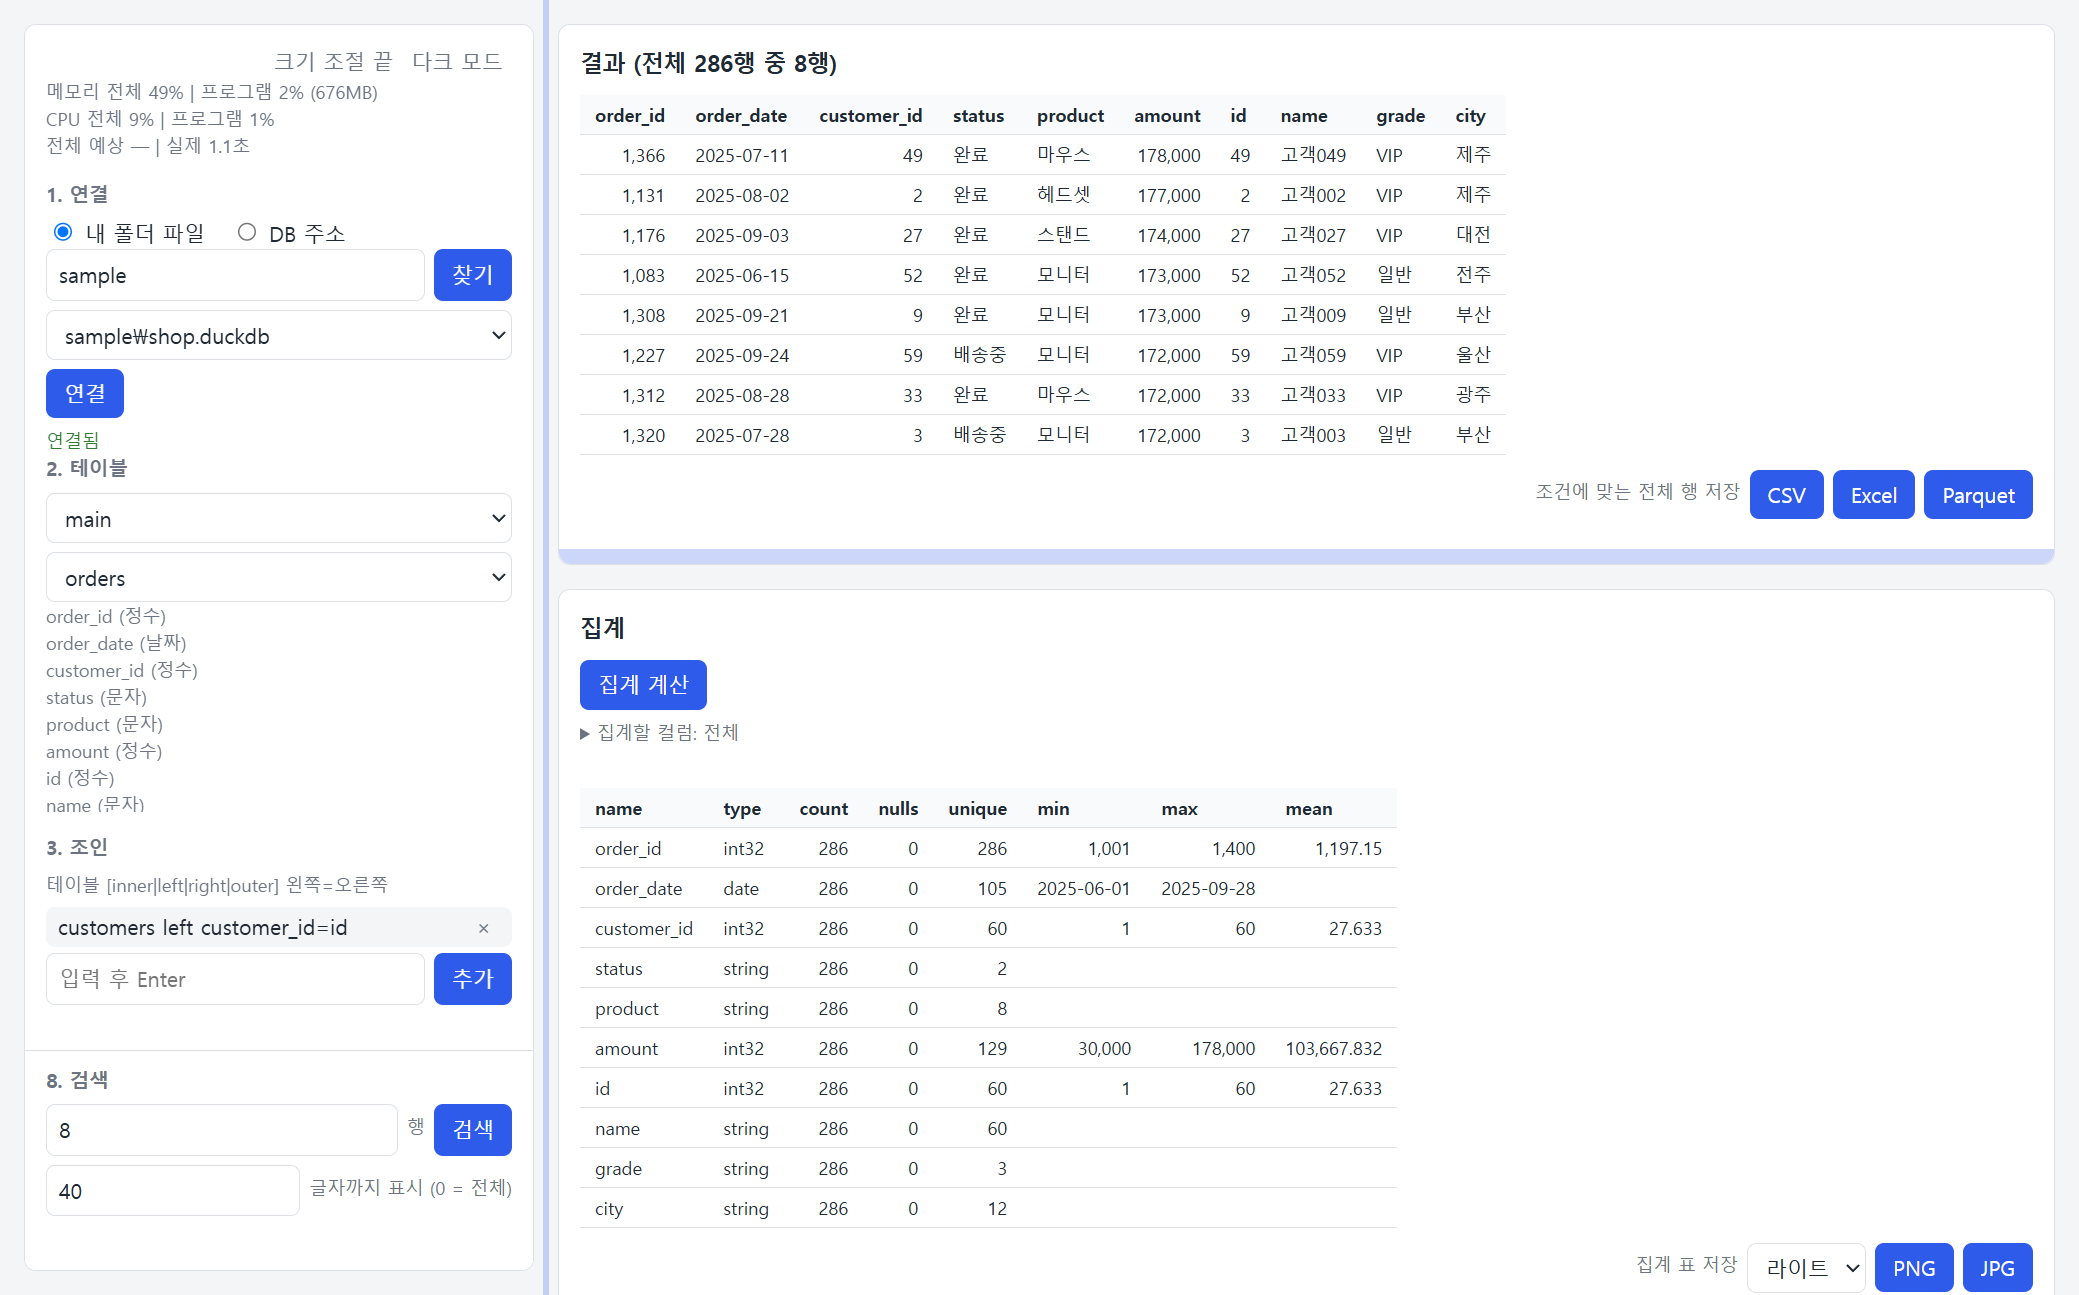
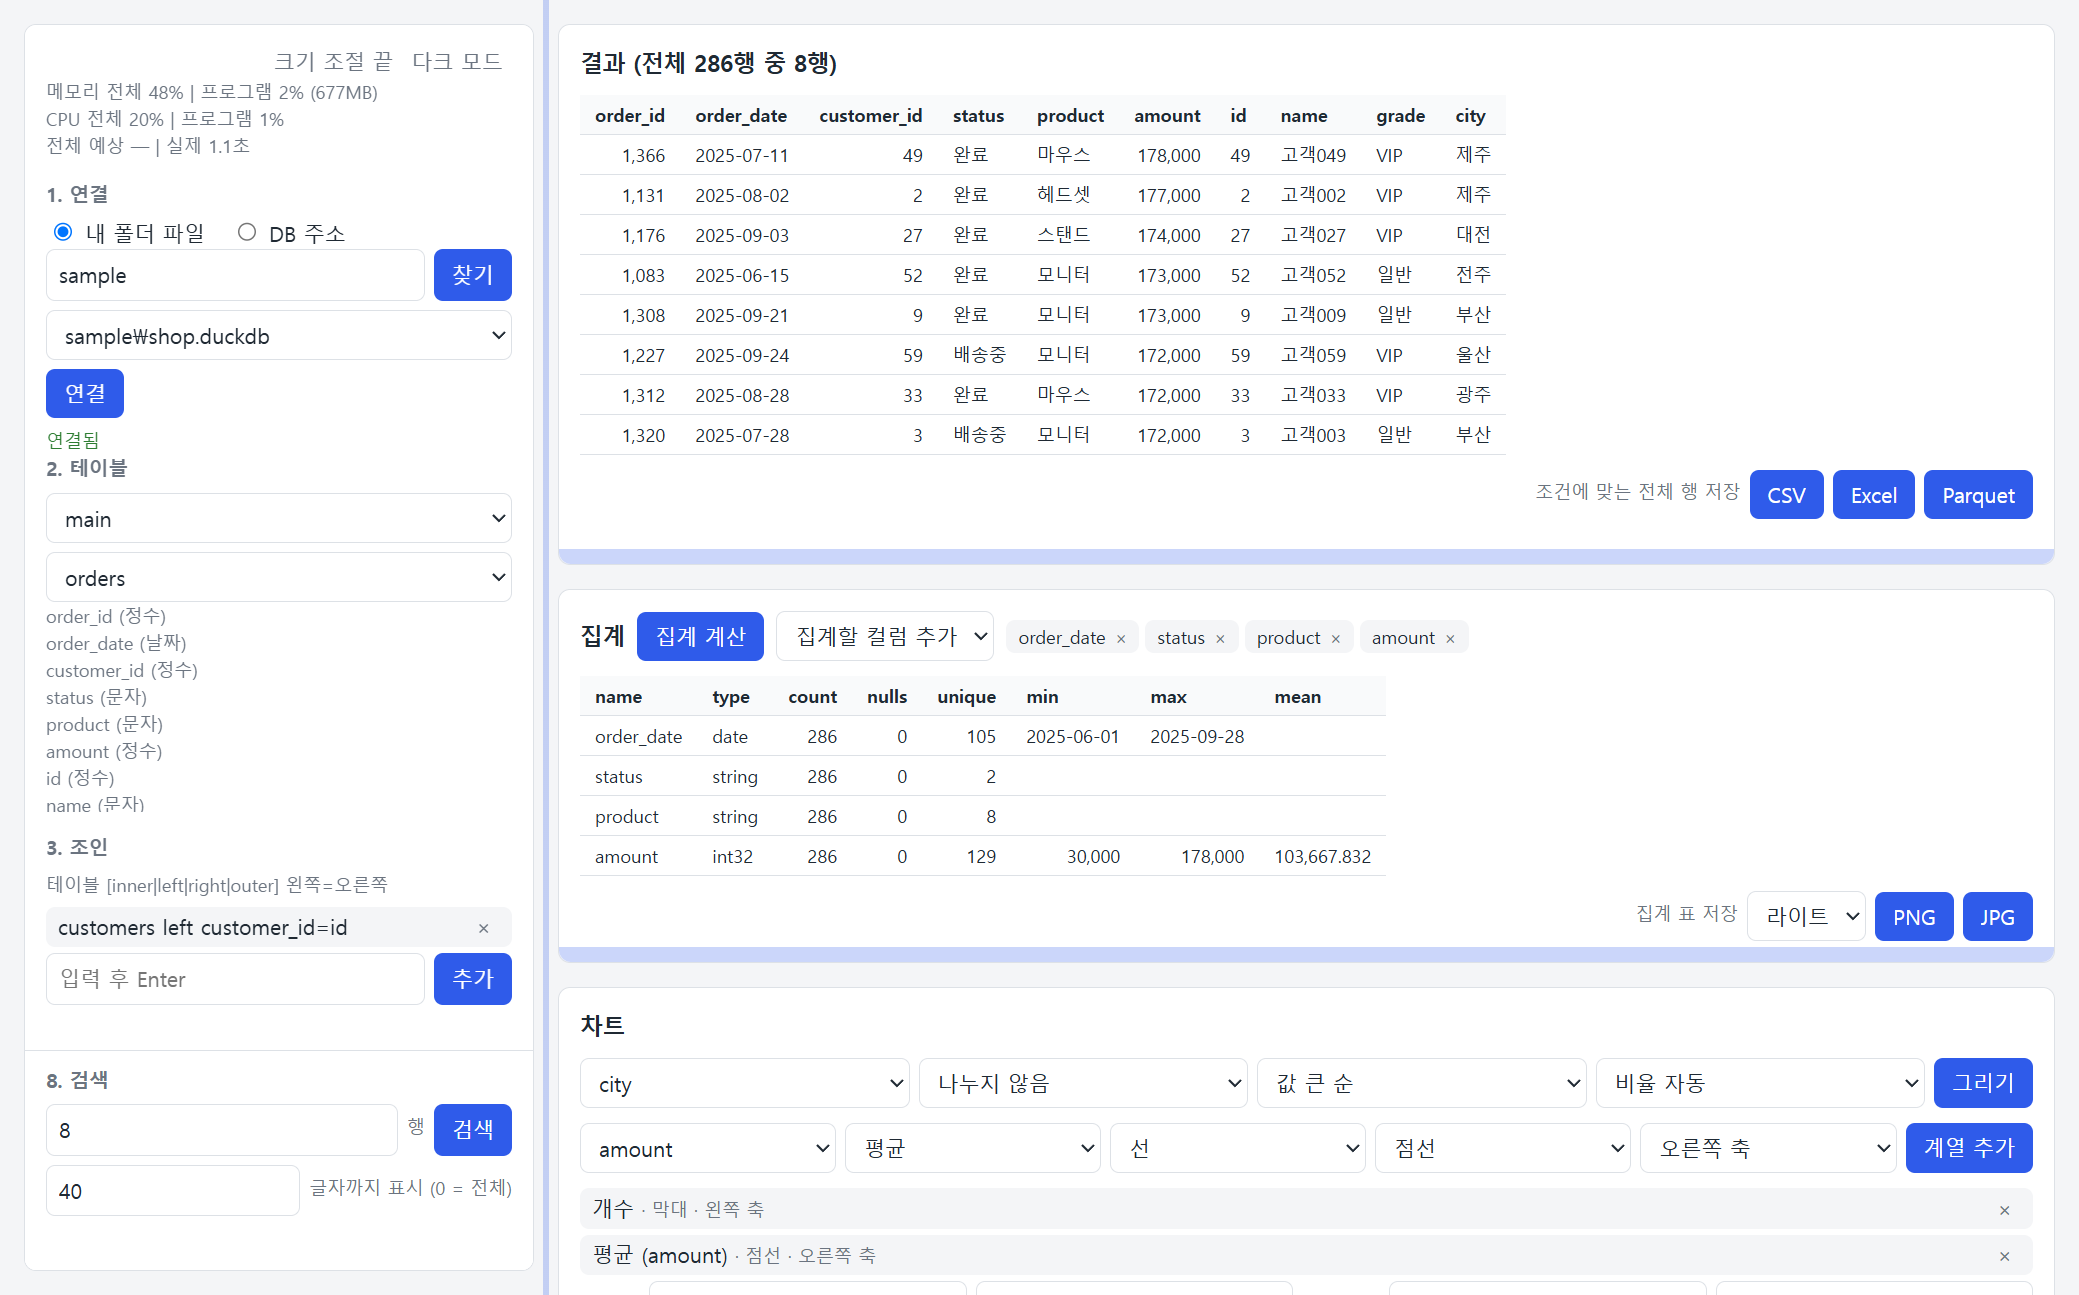
집계할 컬럼을 제목 줄에서 고르기, 접속 제한 60초
- 집계 카드: 제목 옆에 [집계 계산]과 컬럼 고르는 칸, 고른 컬럼은 ×가 달린 칩으로 표시
- 칩이 한 줄을 넘으면 "… 외 N개"로 줄이고 누르면 펼침
- 제목 줄과 표 사이의 빈 줄 제거
- 주소 접속 제한 시간을 30초에서 60초로
- README 설명과 화면 그림 갱신

diff --git a/static/index.html b/static/index.html
@@ -65,9 +65,16 @@
   #flat .row { align-items:center; margin-bottom:2px; }
   #flat-list label, .checks label { display:block; white-space:nowrap; }
   #flat-list input, .checks input { width:auto; }
-  #scols-box { margin-bottom:6px; }
-  #scols-box summary { cursor:pointer; }
-  #scols-box .row { align-items:center; margin:4px 0 2px; }
+  /* 카드 제목 줄: 제목 옆에 버튼과 고르는 칸, 그 오른쪽에 고른 것들(칩)이 한 줄로 놓인다. */
+  .head { display:flex; flex-wrap:wrap; align-items:center; gap:8px; margin-bottom:10px; }
+  .head h3 { margin:0; flex:none; }
+  .head select { width:auto; max-width:200px; flex:none; }
+  .chips { display:flex; flex:1 1 160px; min-width:0; gap:4px; align-items:center; overflow:hidden; }
+  .chips.open { flex-wrap:wrap; }
+  .chips .hint { margin:0; white-space:nowrap; }
+  .chip { flex:none; background:var(--bg); border-radius:6px; padding:2px 2px 2px 8px; font-size:12px; white-space:nowrap; }
+  .chip.more { padding:2px 8px; color:var(--accent); cursor:pointer; }
+  #err-summary:empty { display:none; }  /* 알릴 것이 없으면 제목 줄과 표 사이를 비우지 않는다. */
   /* 조건 입력 방식: 칸으로 선택(.fields)이면 한 줄 입력칸과 형식 안내를, 한 줄 입력(.line)이면 칸들을 감춘다. 조건 목록은 둘 다 같이 쓴다. */
   #cond.fields :is(#conditions .row, .format), #cond.line #builder { display:none; }
   #builder .row select { flex:1; min-width:0; }
@@ -193,13 +200,12 @@
       <div class="grip-y" data-size="rows" title="끌어서 결과 표 높이 조절 (더블클릭: 기본)"></div>
     </section>
     <section class="card">
-      <h3>집계</h3>
-      <div class="row"><button id="summarize">집계 계산</button></div>
-      <details id="scols-box">
-        <summary class="hint" id="scols-count"></summary>
-        <div class="row"><button class="ghost" id="scols-all">모두 선택</button><button class="ghost" id="scols-none">모두 해제</button></div>
-        <div class="cols checks" id="scols"></div>
-      </details>
+      <div class="head">
+        <h3>집계</h3>
+        <button id="summarize">집계 계산</button>
+        <select id="scol-add" title="집계할 컬럼을 고릅니다. 하나도 고르지 않으면 전체를 집계합니다"></select>
+        <div class="chips" id="scols"></div>
+      </div>
       <div class="err" id="err-summary"></div>
       <div class="table-wrap" id="summary"></div>
       <div class="row save"><span class="hint">집계 표 저장</span>
@@ -341,7 +347,7 @@ document.querySelectorAll("input[name=kind]").forEach(r => r.onchange = () => {
   $("folder-box").classList.toggle("hidden", !folder);
   $("url-box").classList.toggle("hidden", folder);
 });
-// 체크 목록: box 안에 값마다 체크 칸을 만든다. keep에 든 값은 체크해 둔다. checked(box)는 체크한 값들.
+// 체크 목록: box 안에 값마다 체크 칸을 만든다. keep에 든 값은 체크해 둔다.
 function checks(box, values, keep = []) {
   box.replaceChildren(...values.map(v => {
     const label = document.createElement("label"), input = Object.assign(document.createElement("input"), { type: "checkbox", value: v, checked: keep.includes(v) });
@@ -349,20 +355,42 @@ function checks(box, values, keep = []) {
     return label;
   }));
 }
-function checked(box) { return [...box.querySelectorAll("input:checked")].map(i => i.value); }
 // 집계할 컬럼: 고르지 않으면 전체(표시 컬럼을 정했으면 그 컬럼들), 고르면 그 컬럼만 집계한다. 컬럼 목록이 바뀌어도 고른 것은 남긴다.
+// 제목 옆 칸에서 고르면 그 오른쪽에 ×가 달린 칩으로 놓인다. 한 줄에 다 안 들어가면 들어가는 만큼만 보이고 나머지는 "… 외 N개"로 줄인다(누르면 펼침).
+let scols = [], scolsOpen = false;
 function showSummaryCols() {
-  const n = checked($("scols")).length;
-  $("scols-count").textContent = n ? `집계할 컬럼: ${n} / ${S.cols.length}개 선택` : "집계할 컬럼: 전체";
+  const box = $("scols");
+  const chip = name => {
+    const item = Object.assign(document.createElement("span"), { className: "chip", textContent: name });
+    const remove = Object.assign(document.createElement("button"), { className: "ghost", textContent: "×", title: "빼기" });
+    remove.onclick = () => { scols = scols.filter(c => c !== name); fillSummaryCols(); };
+    item.append(remove);
+    return item;
+  };
+  const toggle = (text, title) => {
+    const item = Object.assign(document.createElement("span"), { className: "chip more", textContent: text, title });
+    item.onclick = () => { scolsOpen = !scolsOpen; showSummaryCols(); };
+    return item;
+  };
+  if (!scols.length) scolsOpen = false;
+  box.classList.toggle("open", scolsOpen);
+  if (!scols.length) { box.innerHTML = '<span class="hint">전체 컬럼</span>'; return; }
+  box.replaceChildren(...scols.map(chip));
+  if (scolsOpen) { box.append(toggle("접기", "한 줄로 줄입니다")); return; }
+  for (let shown = scols.length; shown > 0 && box.scrollWidth > box.clientWidth; ) {
+    shown--;
+    box.replaceChildren(...scols.slice(0, shown).map(chip), toggle(`… 외 ${scols.length - shown}개`, scols.slice(shown).join(", ")));
+  }
 }
 function fillSummaryCols() {
-  checks($("scols"), S.cols.map(c => c[0]), checked($("scols")));
+  const names = S.cols.map(c => c[0]);
+  scols = scols.filter(c => names.includes(c));
+  fill($("scol-add"), names.filter(c => !scols.includes(c)), "집계할 컬럼 추가");
   showSummaryCols();
 }
-$("scols").onchange = showSummaryCols;
-$("scols-all").onclick = () => { $("scols").querySelectorAll("input").forEach(i => i.checked = true); showSummaryCols(); };
-$("scols-none").onclick = () => { $("scols").querySelectorAll("input").forEach(i => i.checked = false); showSummaryCols(); };
-showSummaryCols();
+$("scol-add").onchange = () => { if ($("scol-add").value) { scols.push($("scol-add").value); fillSummaryCols(); } };
+new ResizeObserver(showSummaryCols).observe($("scols"));  // 카드 너비가 바뀌면 다시 맞춘다.
+fillSummaryCols();
 
 // Parquet·CSV는 여러 개를 골라 연다(파일마다 테이블 하나). 파일 목록에서 이 항목을 고르면 체크 목록이 나온다.
 const FLAT = "*flat";  // 파일 이름에 쓸 수 없는 글자로 시작해 실제 경로와 겹치지 않는다.
@@ -598,7 +626,7 @@ $("summarize").onclick = () => {
   return busy($("summarize"), async () => {
     const before = last;
     try {
-      const { summary } = await timed("summary", () => api("/api/summary", { ...state(), summary_columns: checked($("scols")) }));
+      const { summary } = await timed("summary", () => api("/api/summary", { ...state(), summary_columns: scols }));
       if (last !== before) return;  // 계산하는 사이 새로 검색했으면 버린다.
       last = { ...last, summary };
       renderTables();

diff --git a/source.py b/source.py
@@ -53,7 +53,7 @@ def open_flat_files(paths):
     return con
 
 
-CONNECT_TIMEOUT = 30  # 주소로 접속할 때 기다리는 시간(초). 틀린 주소에서 드라이버가 몇 분씩 붙잡는 것을 막는다.
+CONNECT_TIMEOUT = 60  # 주소로 접속할 때 기다리는 시간(초). 틀린 주소에서 드라이버가 몇 분씩 붙잡는 것을 막는다.
 
 
 def within(seconds, connect):

diff --git a/README.md b/README.md
@@ -67,7 +67,7 @@ DB·DW 또는 내 데이터 파일(DuckDB, Parquet, CSV)에 연결해, 테이블
 
 비밀번호는 프로그램이 켜져 있는 동안 메모리에만 두고, 오류 문구에서는 가립니다.
 
-30초 안에 연결되지 않으면 기다리기를 멈추고 알려 줍니다. 주소가 틀렸거나 네트워크가 막혀 있을 때입니다.
+60초 안에 연결되지 않으면 기다리기를 멈추고 알려 줍니다. 주소가 틀렸거나 네트워크가 막혀 있을 때입니다.
 
 ### 연결을 바꾸거나 끊을 때
 
@@ -237,7 +237,7 @@ status, amount
 
 [집계 계산]을 누르면 지금 조건으로 컬럼별 개수, 빈 값, 고유값, 최소, 최대, 평균을 계산합니다. 최소와 최대는 숫자와 날짜 컬럼에, 평균은 숫자 컬럼에만 나옵니다. 큰 테이블에서는 오래 걸릴 수 있어 검색과 따로 계산하고, 새로 검색하면 지워집니다.
 
-일부 컬럼만 집계하려면 [집계할 컬럼]을 눌러 목록을 펼치고 원하는 컬럼을 체크한 뒤 [집계 계산]을 누릅니다. 아무것도 체크하지 않으면 전체를 집계합니다(표시 컬럼을 정했으면 그 컬럼들). 고른 컬럼만 계산하므로 큰 테이블에서는 더 빨리 끝납니다. 표시 컬럼에 없는 컬럼도 고를 수 있습니다.
+일부 컬럼만 집계하려면 제목 옆의 [집계할 컬럼 추가]에서 컬럼을 고릅니다. 고른 컬럼은 그 오른쪽에 하나씩 놓이고, `×`로 뺍니다. 한 줄에 다 들어가지 않으면 `… 외 N개`로 줄여 보이며, 누르면 모두 펼칩니다. 하나도 고르지 않으면 전체를 집계합니다(표시 컬럼을 정했으면 그 컬럼들). 고른 컬럼만 계산하므로 큰 테이블에서는 더 빨리 끝납니다. 표시 컬럼에 없는 컬럼도 고를 수 있습니다.
 
 집계 표 아래의 [PNG], [JPG]를 누르면 표 전체를 그림 파일로 저장합니다. 화면에서 스크롤해야 보이는 행도 모두 들어갑니다. 그 왼쪽에서 그림의 모드([라이트]는 흰 배경, [다크]는 어두운 배경)를 고릅니다.
 
